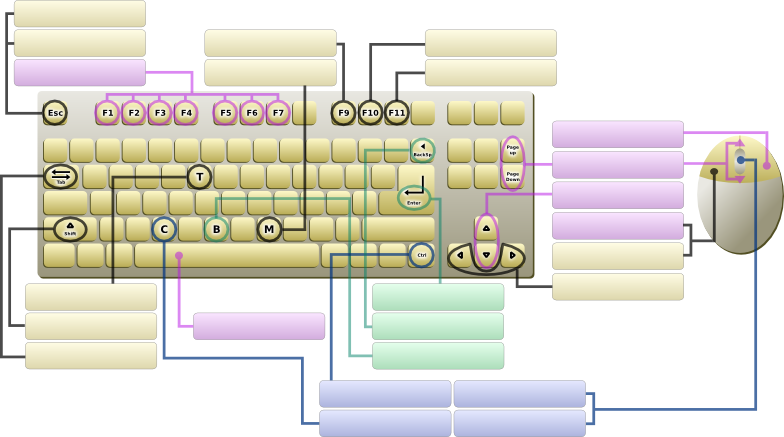
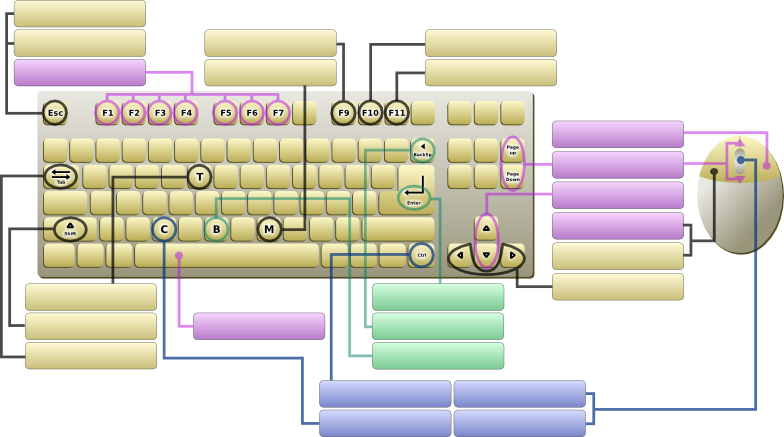
some few adjustments on help menu
Imported from: svn+ssh://svn.gna.org/svn/wormux/trunk@6690
Original author: yekcim
Original date: Fri Sep 25 21:43:27 2009 +0000

diff --git a/src/menu/help_menu.cpp b/src/menu/help_menu.cpp
@@ -86,7 +86,7 @@ void HelpMenu::DrawBackground()
   tmp.Set(_("On map: Select a target")); tmp.DrawCenter(Point2i(552 + border_x + MIDDLE_X, 213 + border_y + MIDDLE_Y));
   tmp.Set(_("On a character: Select it")); tmp.DrawCenter(Point2i(552 + border_x + MIDDLE_X, 244 + border_y + MIDDLE_Y));
   tmp.Set(_("Show the weapons menu")); tmp.DrawCenter(Point2i(552 + border_x + MIDDLE_X, 121 + border_y + MIDDLE_Y));
-  tmp.Set(_("Smaller aim angle and walk step")); tmp.DrawCenter(Point2i(26 + border_x + MIDDLE_X, 285 + border_y + MIDDLE_Y));
+  tmp.Set(_("Smaller aim angle and walk step")); tmp.DrawCenter(Point2i(26 + border_x + MIDDLE_X, 314 + border_y + MIDDLE_Y));
   tmp.Set(_("Move the camera with mouse or arrows")); tmp.DrawCenter(Point2i(320 + border_x + MIDDLE_X, 380 + border_y + MIDDLE_Y));
   tmp.Set(_("Weapon: Fire / Bonus box: fall fast")); tmp.DrawCenter(Point2i(194 + border_x + MIDDLE_X, 313 + border_y + MIDDLE_Y));
   tmp.Set(_("Show/hide the minimap")); tmp.DrawCenter(Point2i(205 + border_x + MIDDLE_X, 60 + border_y + MIDDLE_Y));
